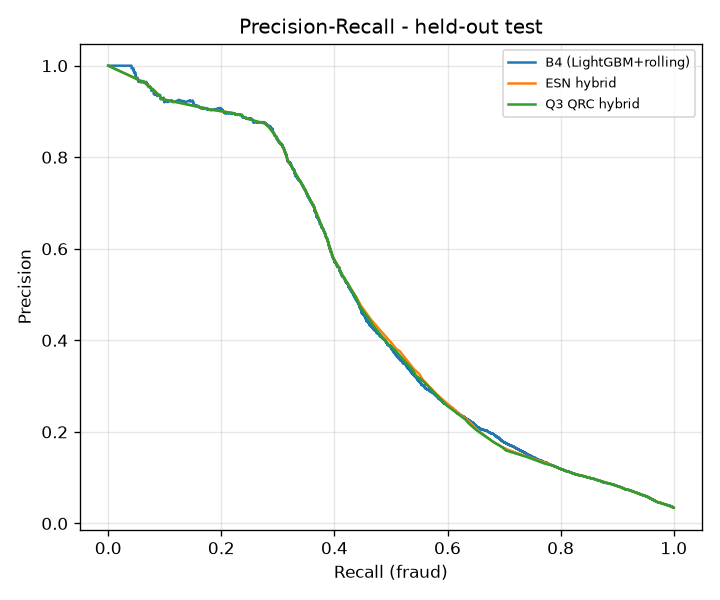
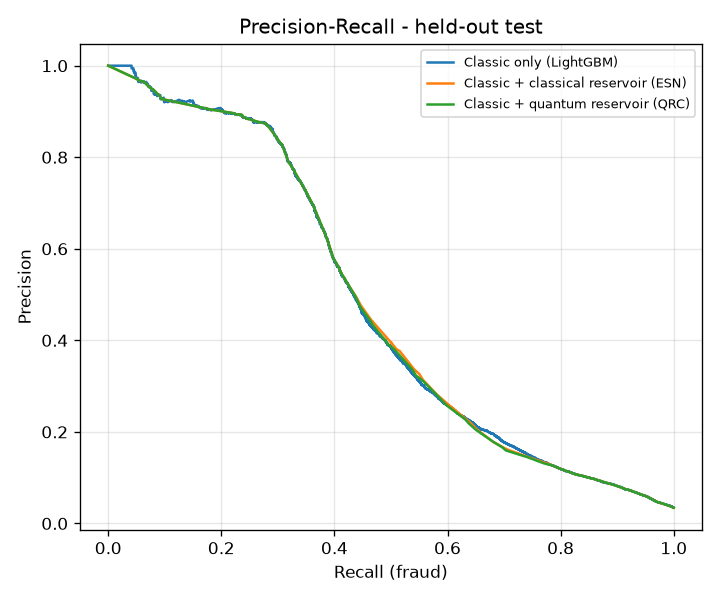
Refresh ieee_uid and confirm runs with plain-English plot labels
Rerun both jobs (159, 161) after propagating the pipeline.py label fix
to the cluster. Same verdict as before on both (OVERALL measurable
improvement: NO, c3-only PASS) -- this refresh only replaces jargon plot
labels (B4/Q0/Q1/Q2/Q3) with plain English, no metric changed.

Also syncs the "QRC ieee"/"QRC tune"/"QRC run" SLURM job-name rename
across all three deploy folders.

Claude-Session: https://claude.ai/code/session_012pmZdrYbbJHmafJMZ3mZF3

Changed region(s): [[0.5806, 0.06, 0.9778, 0.21]]

diff --git a/experiments/ieee_uid/report.md b/experiments/ieee_uid/report.md
@@ -1,7 +1,7 @@
 # Abstraction - PoC results
 
 *Hybrid LightGBM + Quantum Reservoir Computing for card-not-present fraud detection.*
-Auto-generated by `run_experiment.py`. Runtime 5602s.
+Auto-generated by `run_experiment.py`. Runtime 7344s.
 
 ## 1. Data
 
@@ -157,7 +157,7 @@ Q2/Q3 numbers reported above; read them relative to the "ideal (unguarded)" row.
 | | band AUPRC | full-test AUPRC | latency |
 |---|---|---|---|
 | Q3 hybrid (needs offline QRC) | 0.1143 | - | not real-time |
-| distilled classical student | 0.0974 | 0.4600 | 0.0017 ms/txn |
+| distilled classical student | 0.0974 | 0.4600 | 0.0023 ms/txn |
 
 The student runs comfortably inside the 100-300 ms authorisation budget; it
 recovers 85% of the

diff --git a/experiments/ieee_uid_confirm/report.md b/experiments/ieee_uid_confirm/report.md
@@ -1,7 +1,7 @@
 # Abstraction - PoC results
 
 *Hybrid LightGBM + Quantum Reservoir Computing for card-not-present fraud detection.*
-Auto-generated by `run_experiment.py`. Runtime 3822s.
+Auto-generated by `run_experiment.py`. Runtime 4074s.
 
 ## 1. Data
 
@@ -157,7 +157,7 @@ Q2/Q3 numbers reported above; read them relative to the "ideal (unguarded)" row.
 | | band AUPRC | full-test AUPRC | latency |
 |---|---|---|---|
 | Q3 hybrid (needs offline QRC) | 0.1241 | - | not real-time |
-| distilled classical student | 0.1092 | 0.4640 | 0.0018 ms/txn |
+| distilled classical student | 0.1092 | 0.4640 | 0.0017 ms/txn |
 
 The student runs comfortably inside the 100-300 ms authorisation budget; it
 recovers 88% of the
